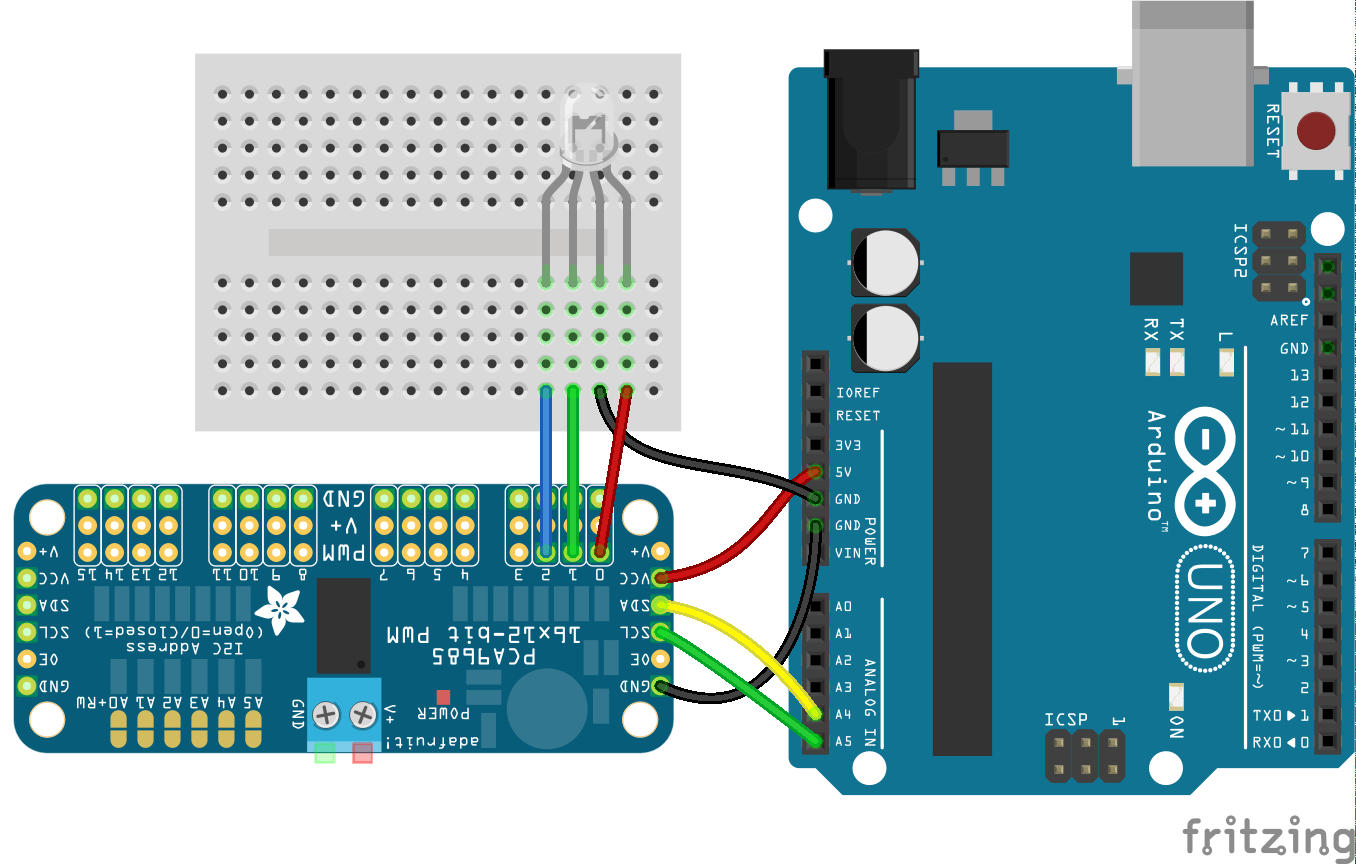
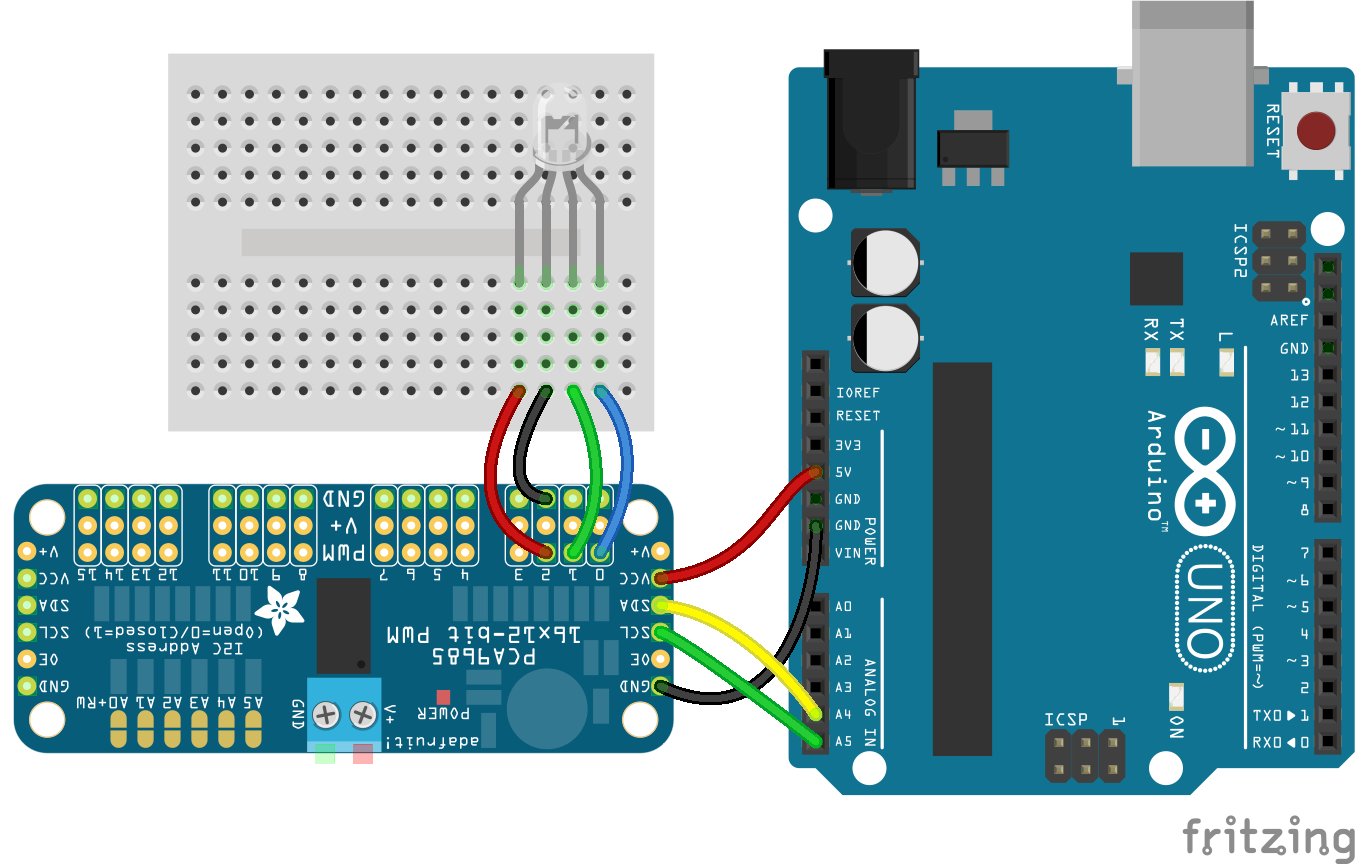
fix RGB-PCA9685 lead mismatch in fzz

diff --git a/eg/led-rgb-PCA9685.js b/eg/led-rgb-PCA9685.js
@@ -6,9 +6,9 @@ five.Board().on("ready", function() {
   // Initialize the RGB LED
   var led = new five.Led.RGB({
     pins: {
-      red: 0,
+      red: 2,
       green: 1,
-      blue: 2
+      blue: 0
     },
     controller: "PCA9685"
   });
@@ -22,7 +22,7 @@ five.Board().on("ready", function() {
   //   blue: b
   // }
   // var led = new five.Led.RGB({
-  //   pins: [0, 1, 2],
+  //   pins: [2, 1, 0],
   //   controller: "PCA9685"
   // });
 

diff --git a/docs/led-rgb-PCA9685.md b/docs/led-rgb-PCA9685.md
@@ -22,9 +22,9 @@ five.Board().on("ready", function() {
   // Initialize the RGB LED
   var led = new five.Led.RGB({
     pins: {
-      red: 0,
+      red: 2,
       green: 1,
-      blue: 2
+      blue: 0
     },
     controller: "PCA9685"
   });
@@ -38,7 +38,7 @@ five.Board().on("ready", function() {
   //   blue: b
   // }
   // var led = new five.Led.RGB({
-  //   pins: [0, 1, 2],
+  //   pins: [2, 1, 0],
   //   controller: "PCA9685"
   // });
 
